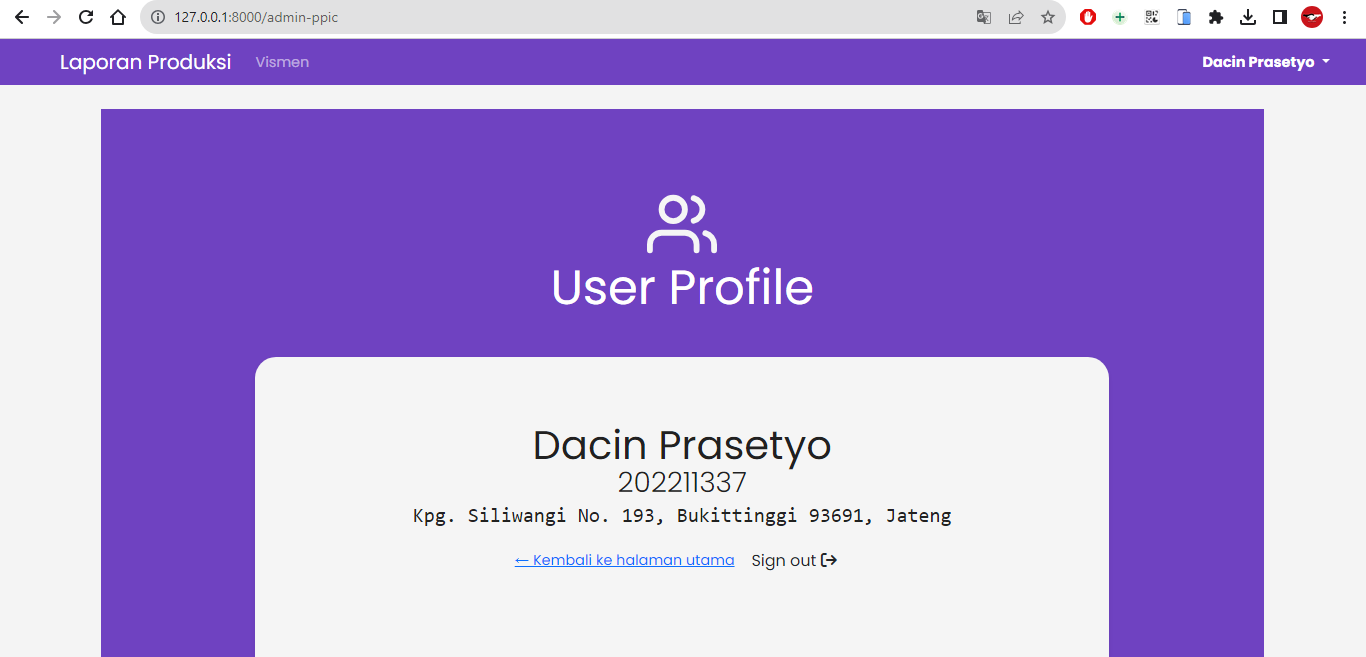
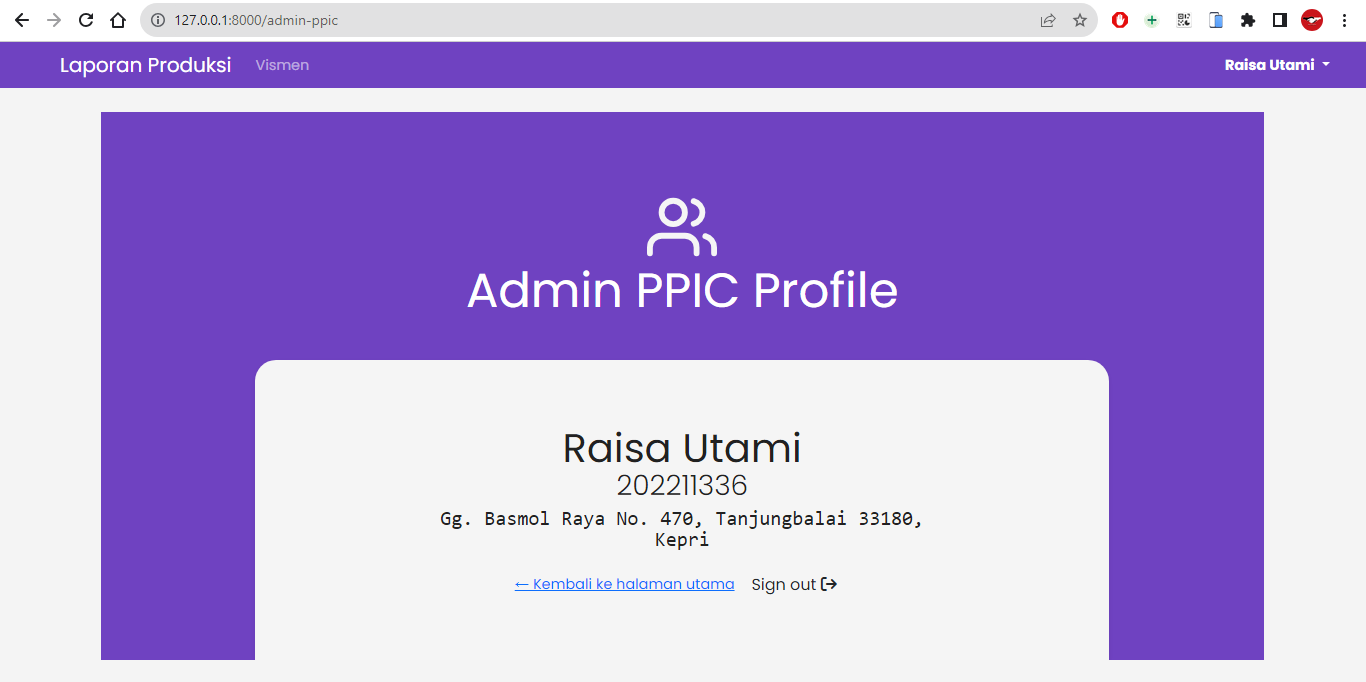
update 28 September 2023

diff --git a/app/views/landing/profile.php b/app/views/landing/profile.php
@@ -7,7 +7,7 @@
                 <path d="M16 3.13C16.8604 3.35031 17.623 3.85071 18.1676 4.55232C18.7122 5.25392 19.0078 6.11683 19.0078 7.005C19.0078 7.89318 18.7122 8.75608 18.1676 9.45769C17.623 10.1593 16.8604 10.6597 16 10.88" stroke="#F5F5F5" stroke-width="2" stroke-linecap="round" stroke-linejoin="round" />
                 <path d="M9 11C11.2091 11 13 9.20914 13 7C13 4.79086 11.2091 3 9 3C6.79086 3 5 4.79086 5 7C5 9.20914 6.79086 11 9 11Z" stroke="#F5F5F5" stroke-width="2" stroke-linecap="round" stroke-linejoin="round" />
             </svg>
-            <h2 class="display-5 fw-normal">User Profile</h2>
+            <h2 class="display-5 fw-normal">Admin PPIC Profile</h2>
         </div>
         <div class="bg-light shadow-sm mx-auto" style="width: 80%; height: 300px; border-radius: 21px 21px 0 0;">
             <div class="col-md-9 p-lg-5 mx-auto">
